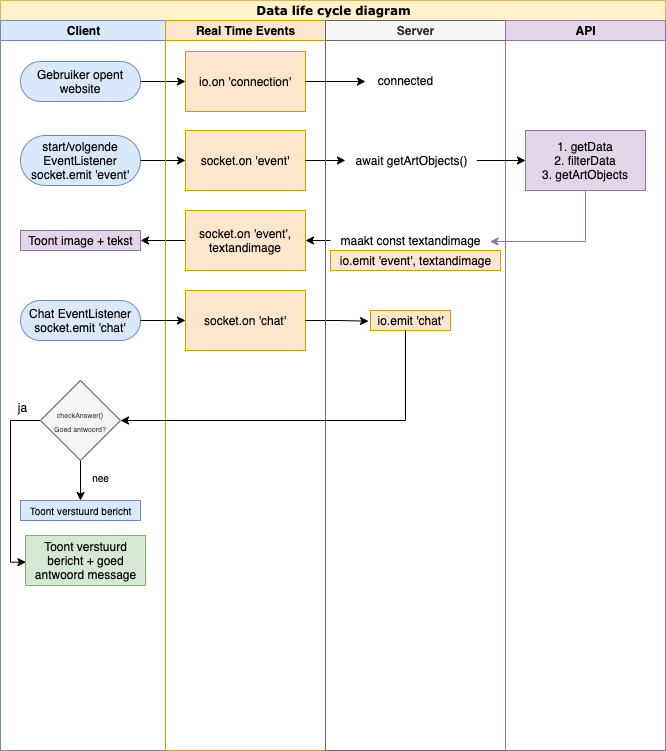
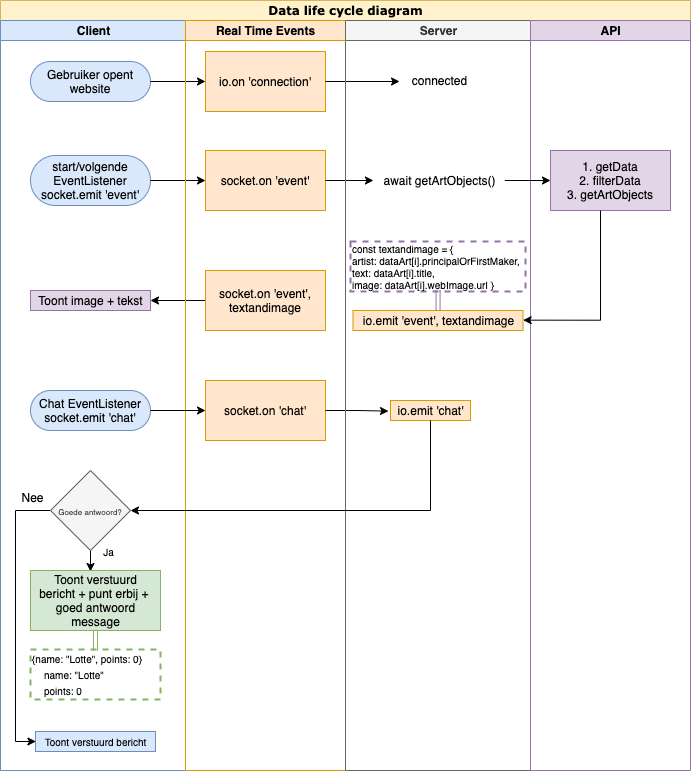
scores added

diff --git a/static/public/js/socket.js b/static/public/js/socket.js
@@ -1,18 +1,28 @@
 const socket = io();
 const form = document.querySelector('#form1')
-const nextButton = document.querySelector('#form2')
+const form2 = document.querySelector('#form2')
+const nextButton = document.querySelector('#form2') 
+const startButton = document.querySelector('#form3') 
 const username = form.querySelector('input#name')
 const message = form.querySelector('input#message')
 const messages = document.querySelector('#messages')
 const rightAnswer = document.querySelector('#rightAnswer')
-const disconnected = document.querySelector('#disconnected')
+const nextAnswer = document.querySelector('#nextAnswer')
+const userLeft = document.querySelector('#disconnected')
 const picture = document.querySelector('img')
 const text = document.querySelector('h2')
 const artists = document.querySelector('h3')
+const bName = document.querySelector('#bname')
+const bScore = document.querySelector('#bscore')
 
+function clearElement(element) {
+  element.innerHTML = ''
+}
 
 form.addEventListener('submit', (e) => {
-  clearElement(disconnected)
+  clearElement(userLeft)
+  clearElement(rightAnswer)
+  clearElement(nextAnswer)
   e.preventDefault()
   if (message.value) {
     socket.emit('chat', {
@@ -23,19 +33,7 @@ form.addEventListener('submit', (e) => {
     message.value = ''
   }
 })
-
-function clearElement(element) {
-  element.innerHTML = ''
-}
-
-
-
-nextButton.addEventListener('submit', (e) => {
-  e.preventDefault()
-  socket.emit('event')
-})
-
-
+let points = 0
 
 socket.on('chat', data => {
   const el = document.createElement('li')
@@ -54,35 +52,99 @@ socket.on('chat', data => {
   async function checkAnswer() {
     const currentArt = artists.textContent
     const answer = guess.textContent
-    console.log(answer)
-    console.log(currentArt)
+    // console.log(answer)
+    // console.log(currentArt)
 
     if (answer.toLowerCase() === currentArt.toLowerCase()) {
-        return response()
-
-          async function response(){
-            return rightAnswer.textContent = "Someone guessed the right answer!";
-          }
-
-    } else {
-        console.log('false')
+      points = points + 1
+      return next() 
+    } 
+    else {
+      return false
     }
   }
 
   checkAnswer()
+
+
+  const newLeaderBoard = {
+    name: data.name,
+    points: points
+  }
+
+localStorage.setItem('leaderBoard', JSON.stringify(newLeaderBoard))
+const leaderBoard = JSON.parse(localStorage.getItem('leaderBoard'))
+
+boardName = leaderBoard.name
+boardScore = leaderBoard.points
+
+bName.textContent = boardName
+bScore.textContent = boardScore
+
 })
 
 
-socket.on('event', (textandimage) => {
+
+
+
+startButton.addEventListener('submit', (e) => {
+  e.preventDefault()
+  socket.emit('event')
+  startButton.style.display = 'none'
+  const nextText = document.createElement('p')
+  const nextButton = document.createElement('button')
+  nextText.textContent = 'Voor als niemand het antwoord weet:'
+  nextButton.textContent = 'VOLGENDE'
+  form2.appendChild(nextText)
+  form2.appendChild(nextButton)
+})
+
+nextButton.addEventListener('submit', (e) => {
+  const currentArtist = artists.textContent
+  nextAnswer.textContent = 'Het juiste antwoord was ' + currentArtist
+  messages.appendChild(nextAnswer)
   clearElement(rightAnswer)
-  clearElement(disconnected)
+  e.preventDefault()
+  socket.emit('event')
+})
+
+function next(){
+  rightAnswer.textContent = "Someone guessed the right answer!"
+  socket.emit('event')
+}
+
+socket.on('event', (textandimage) => {
+  clearElement(userLeft)
   artists.innerText = textandimage.artist;
   text.innerText = textandimage.text;
   picture.src = textandimage.image;
 })
 
-socket.on('disconnect', () => {
-  return disconnected.textContent = "Someone left the game!";
+
+
+socket.on('disconnected', () => {
+  return userLeft.textContent = "Someone left the game!";
 })
 
 
+
+
+
+
+// function addScore (name) {
+
+//   const leaderBoard = JSON.parse(localStorage.getItem('leaderBoard'))
+
+//   const user = leaderBoard.find((user) => user.name === name)
+
+//   //place all other users in a new array
+//   const otherUsers = leaderBoard.filter((user) => user.name !== name)
+
+//   // const newLeaderBoard = [...otherUsers, {
+//   //     name: name,
+//   //     score: user ? user.score + 1 : 1
+//   // }]
+//   // const sortedLeaderBoard = newLeaderBoard.sort((a, b) => b.score - a.score)
+
+//   // return localStorage.setItem('leaderBoard', JSON.stringify(newLeaderBoard))
+// }

diff --git a/index.js b/index.js
@@ -7,9 +7,11 @@ const
   router = require('express').Router(),
   // getArtObjects = require('./utils/filterData'),
   routes = require('./router/router'),
-  port = process.env.PORT || 4000
+  port = process.env.PORT || 4000 ,
+  // LocalStorage = require('node-localstorage').LocalStorage
+  getData = require('./utils/getData')
   
-  // require('dotenv').config();
+
 app
   .use(express.static(path.join(__dirname, "static/public")))
   .use(express.json())
@@ -24,8 +26,6 @@ server.listen(port, () => {
 
 
 
-
-const getData = require('./utils/getData')
 
 const artists = ['Johannes Vermeer', 'Rembrandt van Rijn', 'Vincent van Gogh', 'Karel Appel', 'Jeroen Bosch', 'Pieter Brueghel', 'Mondriaan']
 
@@ -64,11 +64,13 @@ io.on('connection', async socket => {
     else {
       i = i + 1
     }
-      const textandimage = {
-        artist: dataArt[i].principalOrFirstMaker,
-        text: dataArt[i].title,
-        image: dataArt[i].webImage.url,
-      } 
+
+    const textandimage = {
+      artist: dataArt[i].principalOrFirstMaker,
+      text: dataArt[i].title,
+      image: dataArt[i].webImage.url
+    } 
+  
     console.log(i)
   io.emit('event', textandimage)
   })
@@ -78,10 +80,9 @@ io.on('connection', async socket => {
   })
 
   socket.on('disconnect', data => {
-    io.emit('disconnect', data)
+    io.emit('disconnected', data)
   })
 })
 
 
 app.use(router)
-

diff --git a/static/public/css/styles.css b/static/public/css/styles.css
@@ -19,12 +19,12 @@ section:nth-child(1){
   min-width: 250px;
   max-width: 400px;
   grid-column: 1/2;
-  grid-row: 2/3;
+  grid-row: 1/2;
 }
 
 section:nth-child(2){
   grid-column: 1/2;
-  grid-row: 1/2;
+  grid-row: 2/3;
 }
 
 
@@ -94,6 +94,18 @@ p.chat-name {
   margin: 5px 0 0 0;
 }
 
+p#rightAnswer{
+  margin: 0;
+}
+
+p#disconnected{
+  margin: 0;
+}
+
+p#userjoin{
+  margin: 0;
+}
+
 #chat {
   color: #f2ecda;
   background-color: #48423c;
@@ -157,4 +169,38 @@ p.chat-name {
   background-color: #e8505b;
   margin-top: 0.75em;
   box-shadow: -3px 3px 3px rgba(0, 0, 0, 0.25);
+}
+
+#form3 button {
+  font-size: 30px;
+}
+
+#form2 button {
+  font-weight: normal;
+}
+
+#form2 p{
+  font-family: Arial, Helvetica, sans-serif;
+  text-align: center;
+  margin: 20px 0 0 0;
+}
+
+div {
+  color: #f2ecda;
+  background-color: #48423c;
+  border-radius: 30px;
+  padding: 30px 50px;
+  margin: auto auto;
+  display: flex;
+  flex-direction: column;
+  width: 300px;
+  min-height: 10vh;
+}
+
+div p{
+  margin: 0;
+}
+
+div h2{
+  margin: 0;
 }

diff --git a/router/router.js b/router/router.js
@@ -1,10 +1,9 @@
 const router = require('express').Router()
-// const filterData = require('../utils/filterData')
-// const getData = require('../utils/getData')
 
 router.get('/', async function (req, res) {
 
   res.render('main'); 
+  
 })
 
 module.exports = router

diff --git a/README.md b/README.md
@@ -85,18 +85,18 @@ Het werkt zo: Er verschijnt een kunstwerk op je scherm en het scherm van je mede
 
 #### Should have:
 - [x] Styles
-- [ ] Database voor gebruikers en antwoorden
-- [ ] Naam niet verwijderen wanneer je op volgende klikt
+- [x] Automatisch volgende bij goed antwoord
+- [x] Punten telling
+- [x] Naam niet verwijderen wanneer je op volgende klikt
 - [x] Als er een nieuwe gebruiker in het spel komt, niet page reloaden (wat hiervoor wel gebeurde)
 
 #### Could have:
-- [ ] Punten telling
-- [x] Skip knop (zelfde als volgende knop geworden)
+- [ ] Database voor gebruikers en antwoorden
 - [ ] Rondes
 
 #### Would have:
 - [ ] Rooms voor verschillende groepen gebruikers
-- [ ] Filters dat je uit periodes kan kiezen, of uit Nederlandse kunstenaren kunst kiezen.
+- [ ] Filters, bijvoorbeeld alles uit de jaren 1800-1900
 
 ### API
 #### Welke API:
